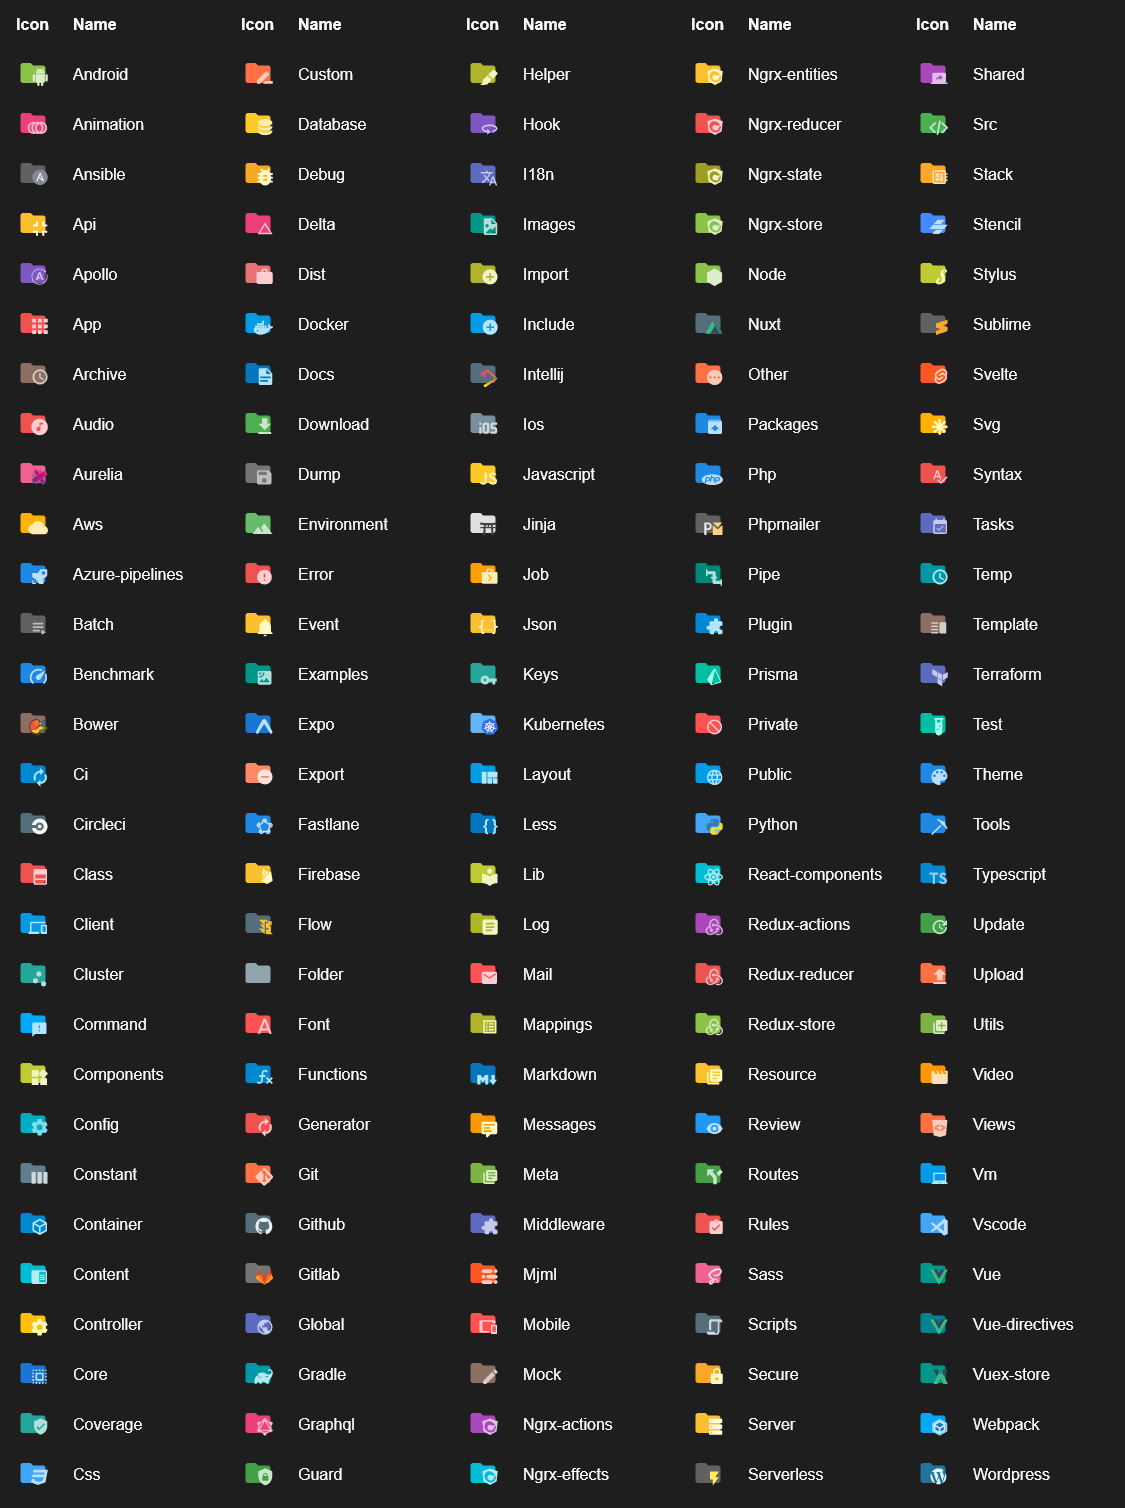
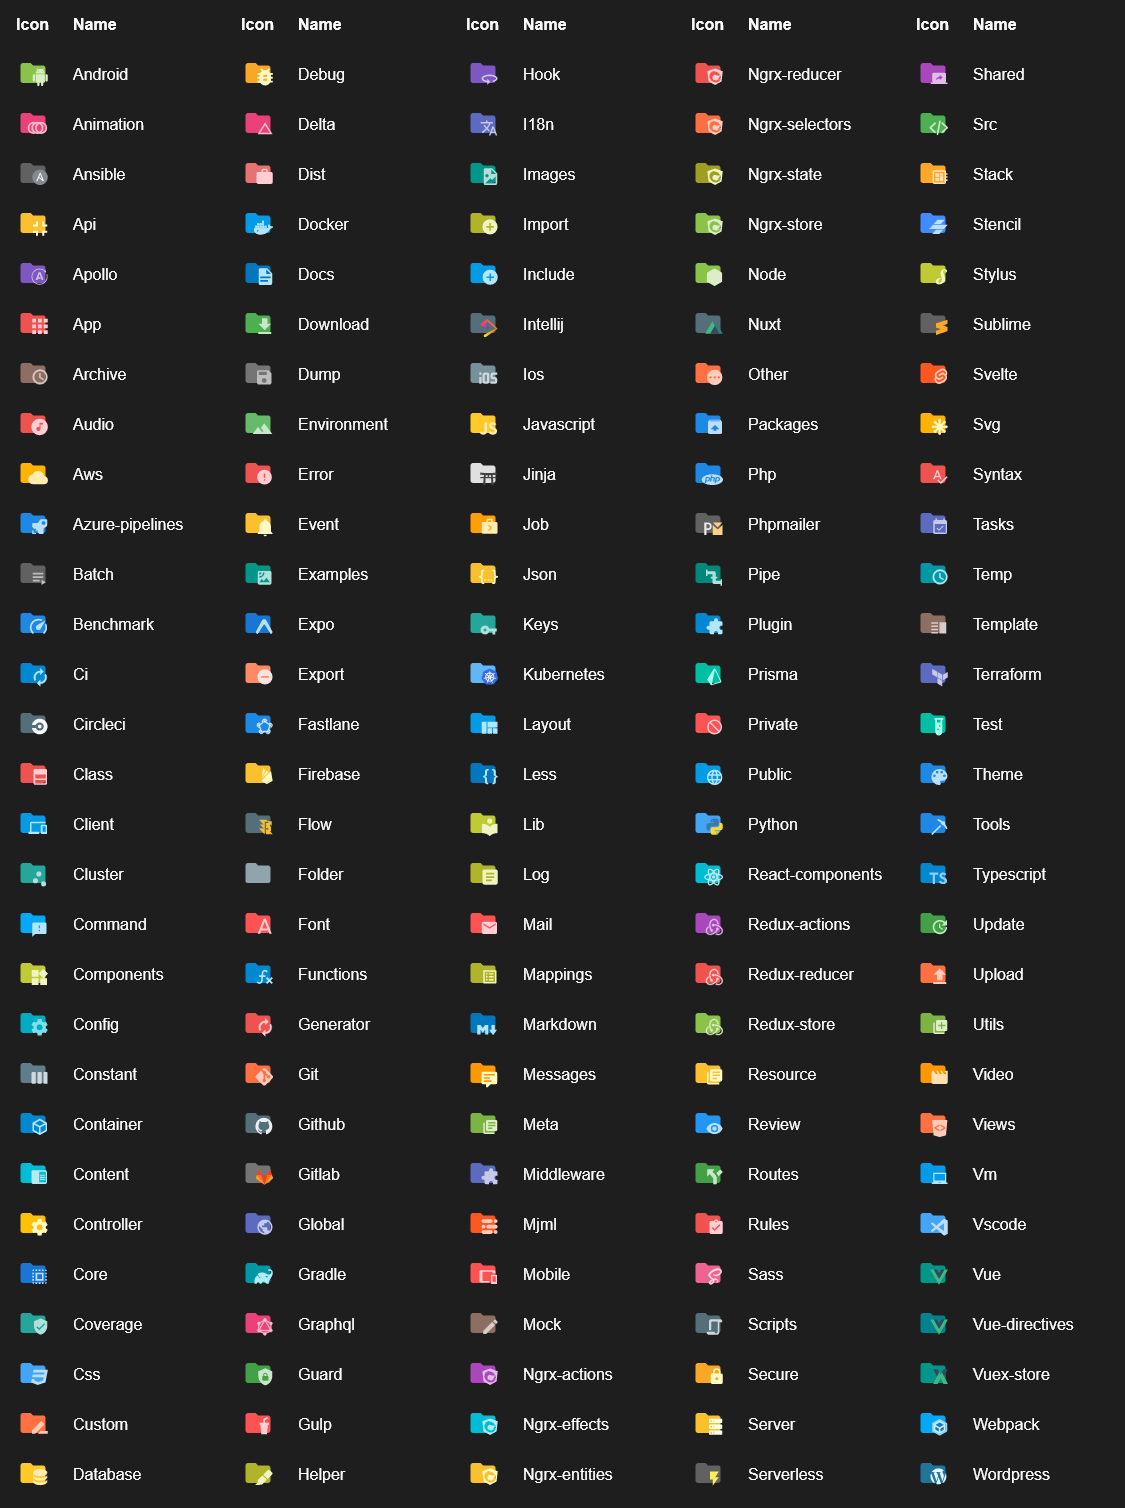
Release 4.4.0

diff --git a/src/scripts/preview/index.ts b/src/scripts/preview/index.ts
@@ -29,5 +29,9 @@ const folderThemes = filterDuplicates(
     .reduce((a, b) => a.concat(b))
 ).map((i) => ({ iconName: i, label: i.replace('folder-', '') }));
 
-generatePreview('fileIcons', basicFileIcons, 5, ['virtual', 'video']);
-generatePreview('folderIcons', folderThemes, 5, ['folder-wakatime']);
+generatePreview('fileIcons', basicFileIcons, 5, ['virtual']);
+generatePreview('folderIcons', folderThemes, 5, [
+  'folder-aurelia',
+  'folder-bower',
+  'folder-wakatime',
+]);

diff --git a/CHANGELOG.md b/CHANGELOG.md
@@ -1,5 +1,41 @@
 # Changelog
 
+## 4.4.0 (2020-11-01)
+
+### New file icons
+
+- Stitches ([@peduarte](https://github.com/peduarte) in [#841](https://github.com/PKief/vscode-material-icon-theme/pull/841))
+- Search file ([@PKief](https://github.com/PKief) in commit [5c50244](https://github.com/PKief/vscode-material-icon-theme/commit/5c502447b18f774cb647f1183dbdc25bbe443086))
+- svelte.config.js ([@eyalch](https://github.com/eyalch) in [#845](https://github.com/PKief/vscode-material-icon-theme/pull/845))
+- \*.passwd ([issue #838](https://github.com/PKief/vscode-material-icon-theme/issues/838))
+- Nginx ([@LukeTimeWalker](https://github.com/LukeTimeWalker) in [#849](https://github.com/PKief/vscode-material-icon-theme/pull/849))
+- Minecraft Function ([@llgava](https://github.com/llgava) in [#854](https://github.com/PKief/vscode-material-icon-theme/pull/854))
+- Replit ([@Banakin](https://github.com/Banakin) in [#853](https://github.com/PKief/vscode-material-icon-theme/pull/853))
+- Rescript ([@prazdevs](https://github.com/prazdevs) in [#823](https://github.com/PKief/vscode-material-icon-theme/pull/823))
+- Brainfuck ([@PKief](https://github.com/PKief) in commit [b12830b](https://github.com/PKief/vscode-material-icon-theme/commit/b12830b3e917f3b2058edf88f9478235ddde8a0c))
+- Snowpack ([@prazdevs](https://github.com/prazdevs) in [#863](https://github.com/PKief/vscode-material-icon-theme/pull/863))
+- Dockerfiles ([@LucasPaganini](https://github.com/LucasPaganini) in [#865](https://github.com/PKief/vscode-material-icon-theme/pull/865))
+- NgRx selectors ([@PKief](https://github.com/PKief) in [#867](https://github.com/PKief/vscode-material-icon-theme/pull/867))
+- copying ([@waldyrious](https://github.com/waldyrious) in [#619](https://github.com/PKief/vscode-material-icon-theme/pull/619))
+- commitlintrc ([@Flandre-X](https://github.com/Flandre-X) in [#870](https://github.com/PKief/vscode-material-icon-theme/pull/870))
+- PostHTML ([@Scrum](https://github.com/Scrum) in [#482](https://github.com/PKief/vscode-material-icon-theme/pull/482))
+
+### New folder icons
+
+- setting ([@slowaways](https://github.com/slowaways) in [#835](https://github.com/PKief/vscode-material-icon-theme/pull/835))
+- reports ([@PKief](https://github.com/PKief) in commit [2d1e9f2](https://github.com/PKief/vscode-material-icon-theme/commit/2d1e9f28194127d1c2fb0dcda37580cd9f9a70f6))
+- gulp ([@entrywayaudibly](https://github.com/entrywayaudibly) in [#850](https://github.com/PKief/vscode-material-icon-theme/pull/850))
+- messaging ([@PKief](https://github.com/PKief) in commit [f901627](https://github.com/PKief/vscode-material-icon-theme/commit/f901627d240fa31b0781e9fdf97e99cd862b3847))
+- NgRx selectors ([@PKief](https://github.com/PKief) in [#867](https://github.com/PKief/vscode-material-icon-theme/pull/867))
+
+### Other improvements
+
+- Add description for custom folder icons ([@PKief](https://github.com/PKief) in commit [5b7ca02](https://github.com/PKief/vscode-material-icon-theme/commit/5b7ca028d2948d6a3b525821ff2b4379a8eff122))
+- Add language ids ([@PKief](https://github.com/PKief) in commit [d3bcd69](https://github.com/PKief/vscode-material-icon-theme/commit/d3bcd6978451a9a1dbb71d2814f60b69ebacf068))
+- Update workflow file for GitHub Actions ([@PKief](https://github.com/PKief) in commit [952dc39](https://github.com/PKief/vscode-material-icon-theme/commit/952dc39e875be9f4431f7895cecfde14b2740d01))
+- Add prettier to project ([@PKief](https://github.com/PKief) in commit [9dfe4a1](https://github.com/PKief/vscode-material-icon-theme/commit/9dfe4a1791b95b648c149eb39b8a14ee56fff6a7))
+- Remove animation from animation folder icon due to performance reasons ([issue #872](https://github.com/PKief/vscode-material-icon-theme/issues/872))
+
 ## 4.3.0 (2020-09-09)
 
 ### New file icons
